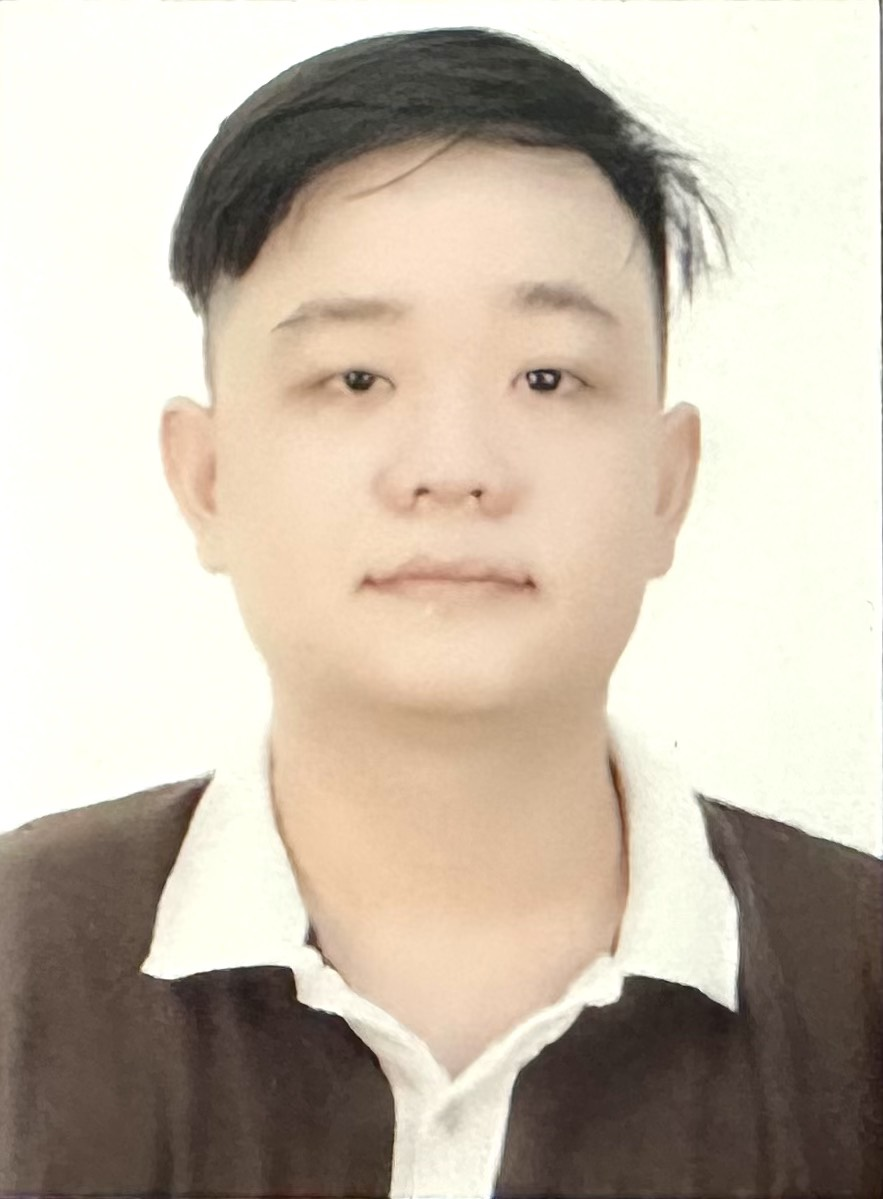
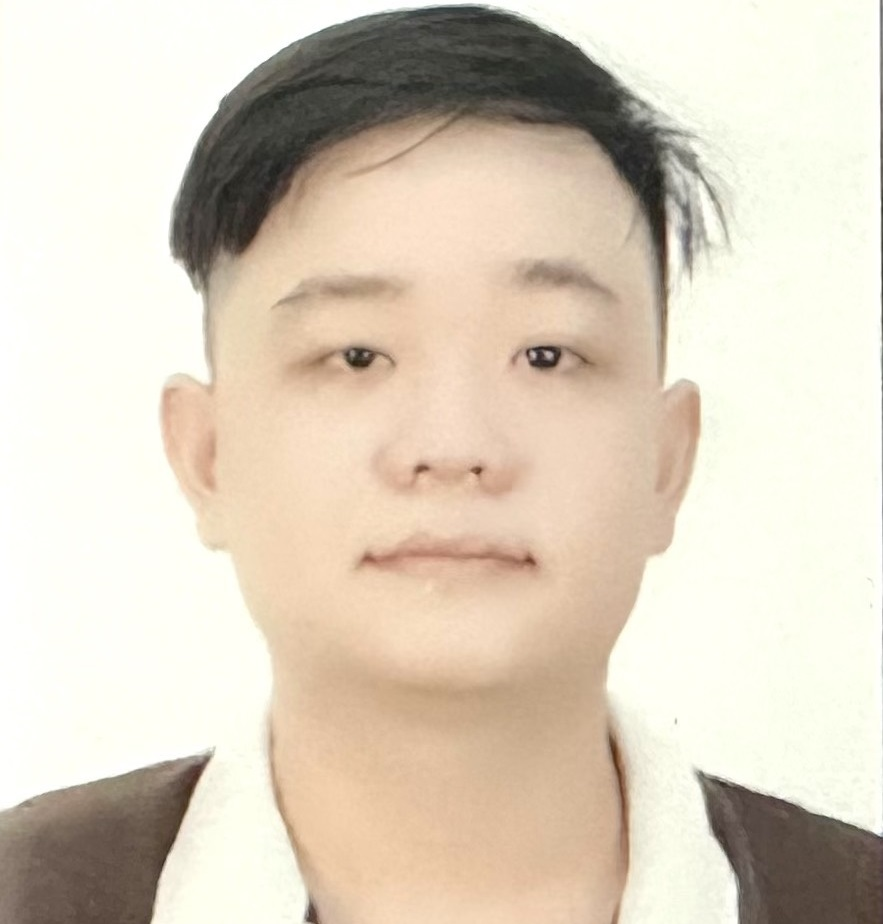
lalala

diff --git a/index.html b/index.html
@@ -11,7 +11,7 @@
     <body>
         <div class="container">
            <div class="avatar">
-            <img src="hinhmat.jpg" alt="">
+            <img src="hinhmat1.jpg" alt="">
            </div>
            <div class="name">
                 <h1>Chương Vĩnh Phát</h1>
@@ -151,7 +151,7 @@
             </div>
 
             <div class="item">
-                <h4>FoodApp</h4>
+                <h4>Game Boom</h4>
                 <div class="time">
                     February 2024 - Present
                 </div>

diff --git a/style.css b/style.css
@@ -16,8 +16,8 @@ body{
 }
 
 .avatar img{
-    width:200px;
-    height:200px;
+    width:300px;
+    height:300px;
     object-fit: cover;
     border-radius: 50%;
 }
